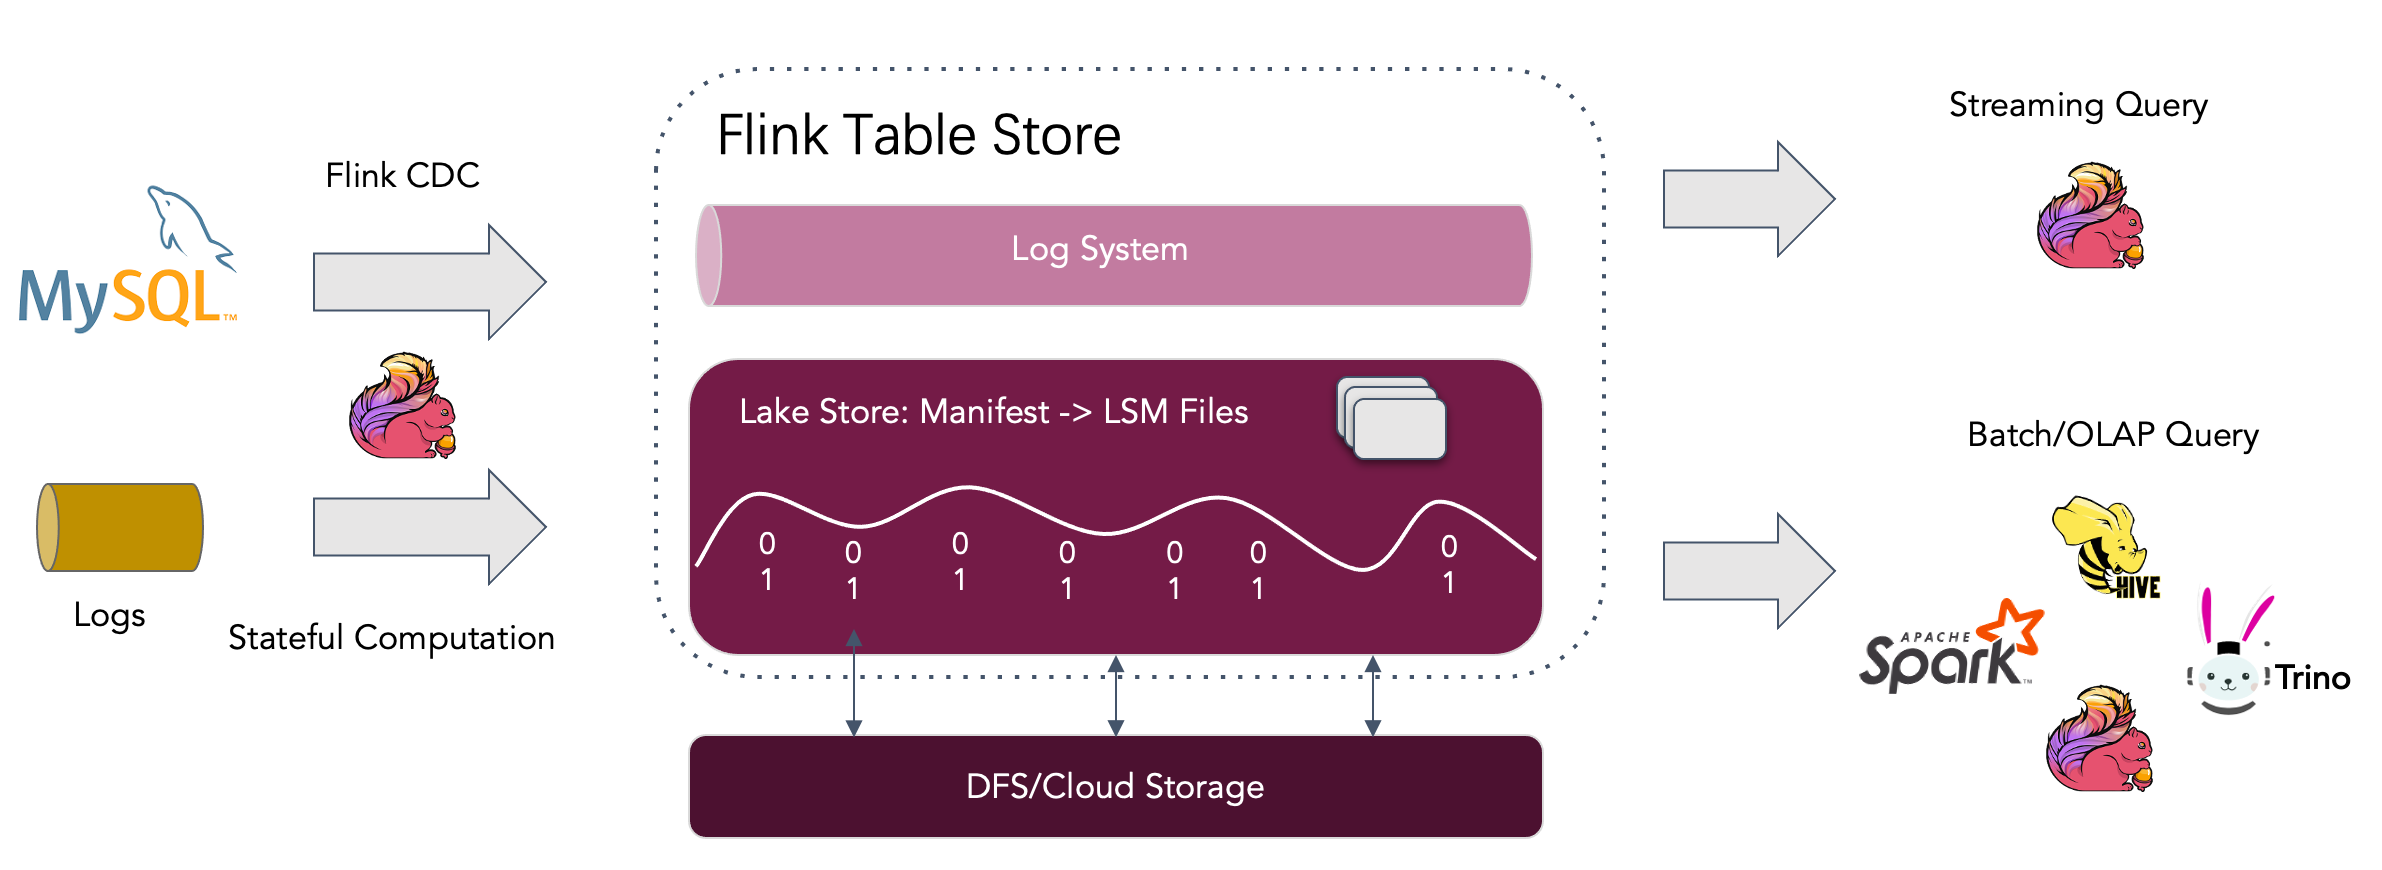
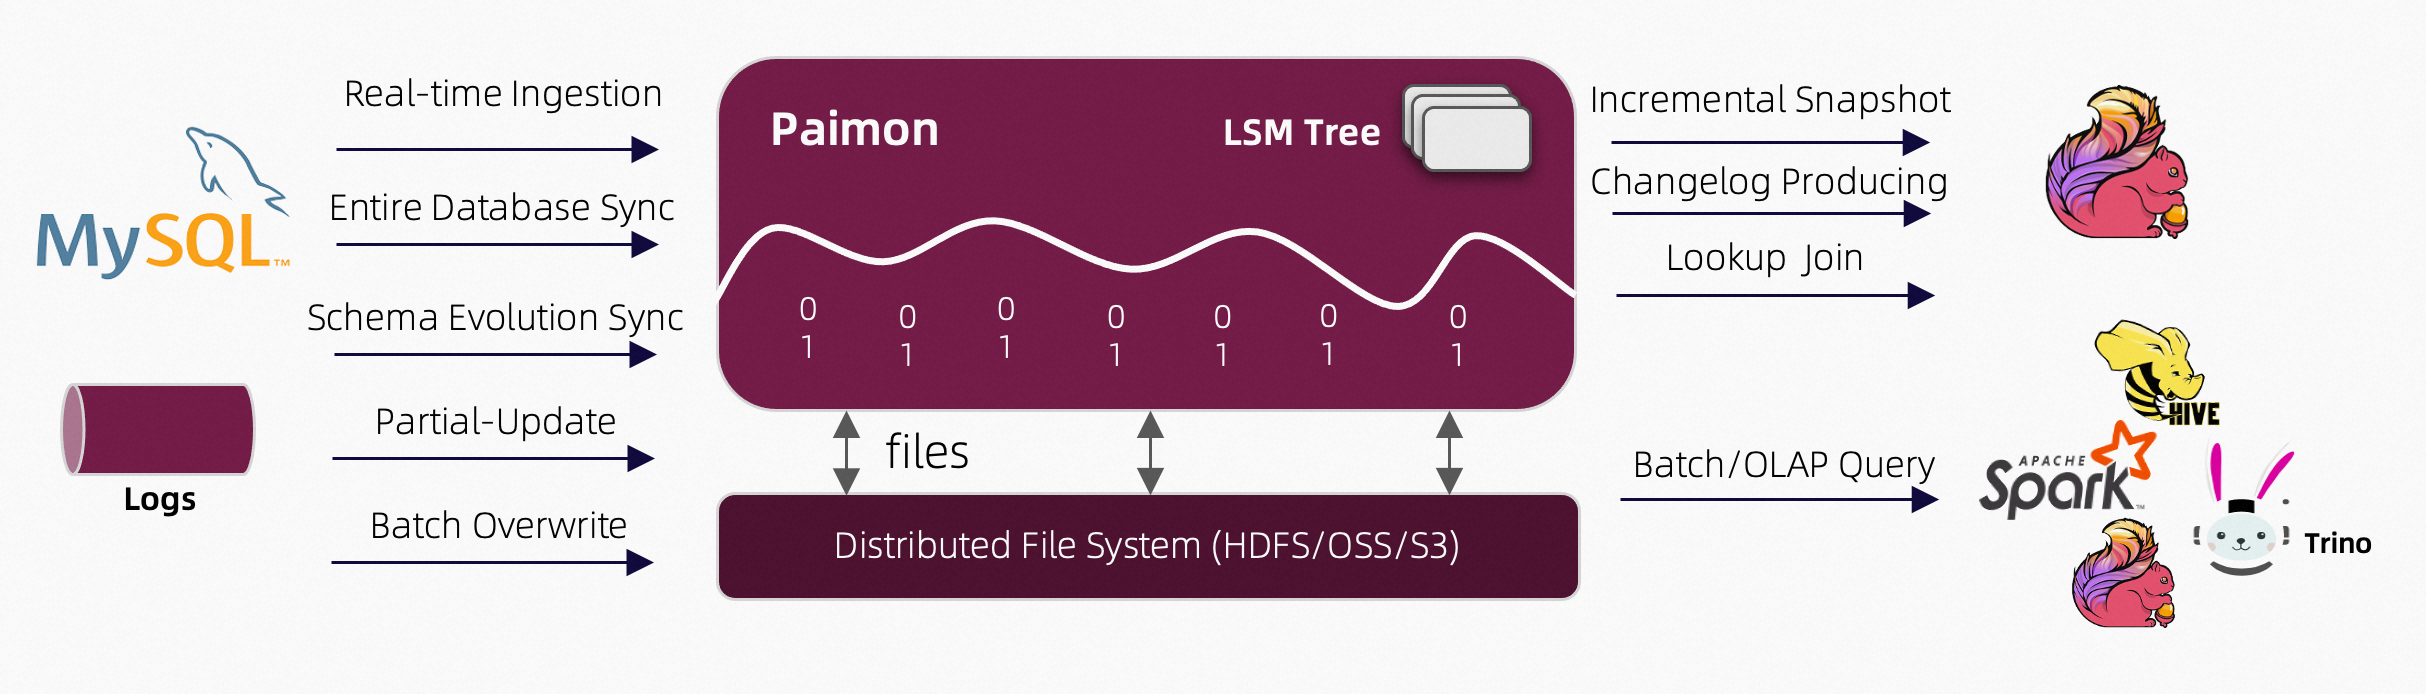
fix

diff --git a/docs/content/_index.md b/docs/content/_index.md
@@ -24,13 +24,15 @@ under the License.
 
 # Apache Paimon
 
-Paimon is a unified storage to build dynamic tables for both streaming and
-batch processing in Flink, supporting high-speed data ingestion and timely data query.
+Apache Paimon(incubating) is a streaming data lake platform that supports high-speed data ingestion, change data tracking and efficient real-time analytics.
+
 Paimon offers the following core capabilities:
-- Support storage of large datasets and allow read/write in both batch and streaming mode.
-- Support streaming queries with minimum latency down to milliseconds.
-- Support Batch/OLAP queries with minimum latency down to the second level.
-- Support incremental snapshots for stream consumption by default. So users do not need to combine different pipelines by themself.
+
+- Unified Batch & Streaming: Paimon supports batch write and batch read, as well as streaming write changes and streaming read table changelogs.
+- Data Lake: As a data lake storage, Paimon has the following advantages: low cost, high reliability, and scalable metadata.
+- Merge Engines: Paimon supports rich Merge Engines. By default, the last entry of the primary key is reserved. You can also use the "partial-update" or "aggregation" engine.
+- Changelog producer: Paimon supports rich Changelog producers, such as "lookup" and "full-compaction". The correct changelog can simplify the construction of a streaming pipeline.
+- Append Only Tables: Paimon supports Append Only tables, automatically compact small files, and provides orderly stream reading. You can use this to replace message queues.
 
 {{< columns >}}
 ## Try Paimon
@@ -43,12 +45,7 @@ step introduction to the APIs and guides you through real applications.
 
 ## Get Help with Paimon
 
-If you get stuck, check out our [community support
-resources](https://flink.apache.org/community.html). In particular, Apache
-Flink’s user mailing list is consistently ranked as one of the most active of
-any Apache project, and is a great way to get help quickly.
+If you get stuck, you can subscribe User Mailing List (user-subscribe@paimon.apache.org),
+Paimon tracks issues in GitHub and prefers to receive contributions as pull requests. You can also create an issue.
 
 {{< /columns >}}
-
-Paimon is developed under the umbrella of
-[Apache Flink](https://flink.apache.org/).

diff --git a/docs/content/concepts/overview.md b/docs/content/concepts/overview.md
@@ -26,8 +26,7 @@ under the License.
 
 # Overview
 
-Paimon is a unified storage to build dynamic tables for both streaming and
-batch processing in Flink, supporting high-speed data ingestion and timely data query.
+Apache Paimon(incubating) is a streaming data lake platform that supports high-speed data ingestion, change data tracking and efficient real-time analytics.
 
 ## Architecture
 
@@ -46,10 +45,8 @@ As shown in the architecture above:
 **Ecosystem:** In addition to Apache Flink, Paimon also supports read by other computation
 engines like Apache Hive, Apache Spark and Trino.
 
-**Internal:** Under the hood, Paimon uses a hybrid storage architecture with a lake format to store
-historical data and a queue system to store incremental data. The former stores the columnar files on
-the filesystem/object-store and uses the LSM tree structure to support a large volume of data updates
-and high-performance queries. The latter uses Apache Kafka to capture data in real-time.
+**Internal:** Under the hood, Paimon stores the columnar files on the filesystem/object-store and uses
+the LSM tree structure to support a large volume of data updates and high-performance queries.
 
 ## Unified Storage
 
